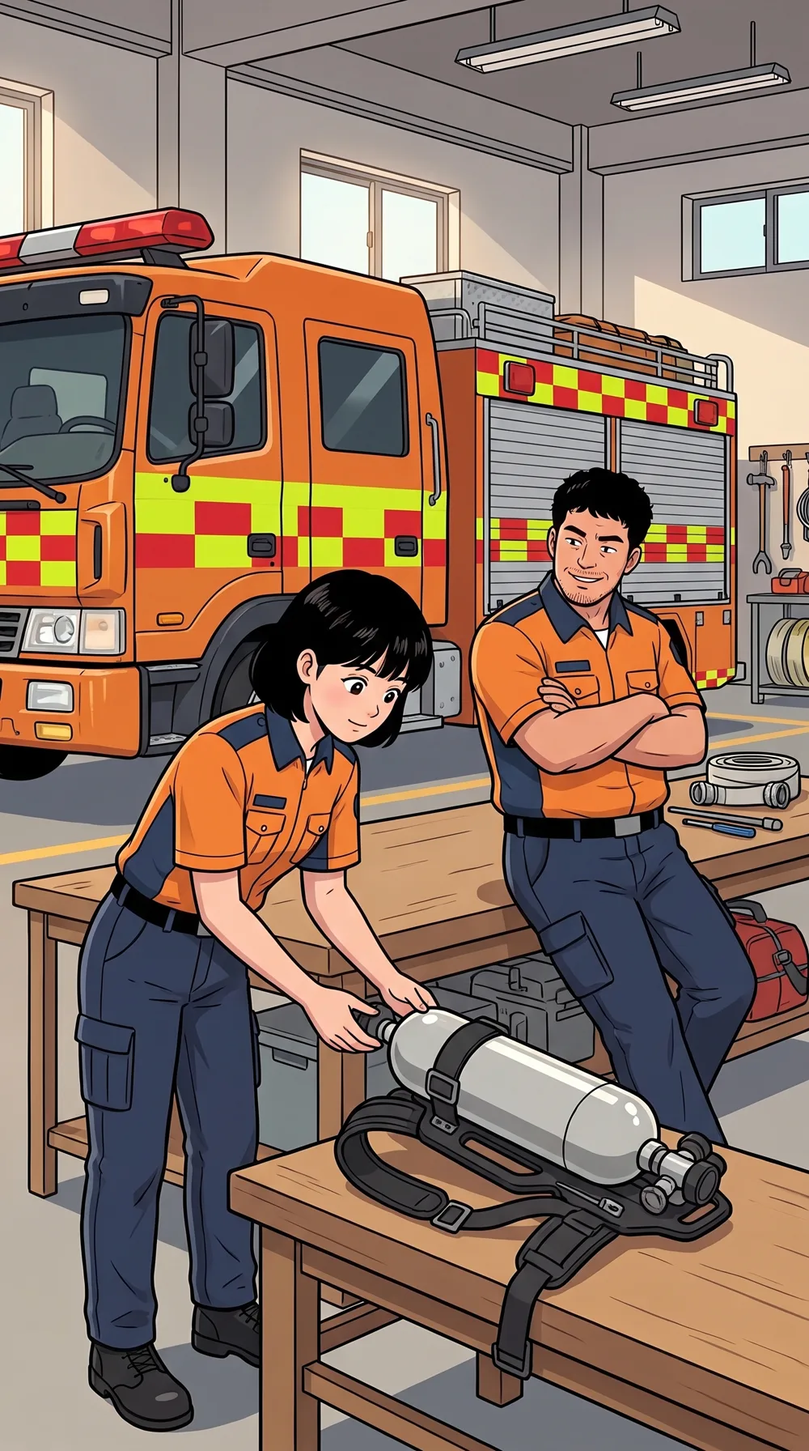
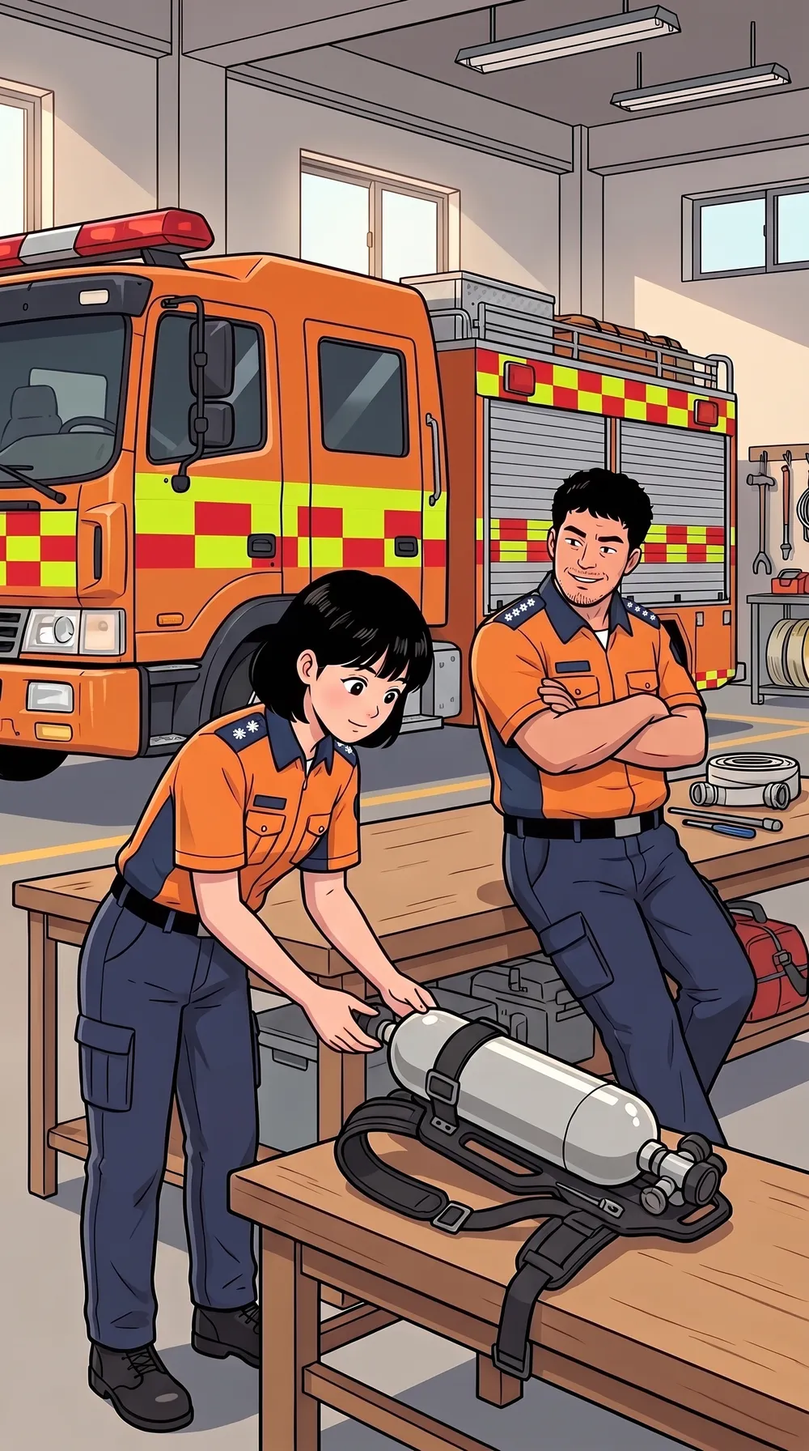
1화·목차: 등장인물 변경, 견장 계급장·역할별 헬멧, 새 말풍선·설명란
- 등장인물: 정종인(소방령 지휘대장), 서종근(소방경 선착대장), 주강호, 이도경, 신태선, 고기석, 임동완
- 1화 컷 2·3·4: 기동복 견장 계급장(소방사 2·소방장 4)
- 1화 컷 5·8·9: 헬멧 지휘관 하늘색, 대원 검정
- 1화 말풍선·설명란을 칸 테두리에 걸치는 흰 타원·사각형 양식으로 변경
- 만든이: 부산지휘역량강화센터 공동제작

diff --git a/ep01/index.html b/ep01/index.html
@@ -1,63 +1,73 @@
-<!doctype html><html lang="ko"><head><meta charset="utf-8"><meta name="author" content="부산 ICTC 서종근"><meta name="viewport" content="width=800"><title>ICTC 지휘통제절차 웹툰 1화 「지령 한 줄」</title><style>
+<!doctype html><html lang="ko"><head><meta charset="utf-8"><meta name="author" content="부산지휘역량강화센터(정종인,서종근,주강호,신태선,고기석,이도경) 공동제작"><meta name="viewport" content="width=800"><title>ICTC 지휘통제절차 웹툰 1화 「지령 한 줄」</title><style>
 @font-face{font-family:P;src:local("Pretendard Bold"),local("Pretendard-Bold");font-weight:700}
 @font-face{font-family:P;src:local("Pretendard Regular"),local("Pretendard-Regular");font-weight:400}
 body{margin:0;background:#2b2b2b;font-family:P,"Malgun Gothic",sans-serif}
 .ep{width:800px;margin:0 auto;background:#fff}
 .head{padding:70px 40px 50px;text-align:center;background:linear-gradient(#0d2a5c,#173f86);color:#fff}
 .head .s{font-size:20px;letter-spacing:4px;color:#ffd34d}.head h1{font-size:54px;margin:14px 0 6px}.head .t{font-size:22px;opacity:.85}
-.cut{position:relative;padding:0 0 26px}
-.frame{position:relative;width:800px;overflow:hidden;background:#d9dde3}
-.frame img{display:block;width:800px}
-.r916{height:1422px}.r169{height:450px}
-.frame img{height:100%;object-fit:cover}
-.ph{position:absolute;inset:0;display:flex;flex-direction:column;align-items:center;justify-content:center;color:#55606e;font-size:26px;gap:10px;text-align:center;padding:40px;box-sizing:border-box}
-.ph small{font-size:16px;color:#7b8794}
-.cap{position:absolute;left:24px;top:24px;max-width:600px;background:#fffbe6;border:3px solid #1d1d1d;padding:14px 18px;font-size:25px;line-height:1.5;font-weight:700;color:#1d1d1d;box-shadow:5px 5px 0 rgba(0,0,0,.35)}
-.cap.mono{background:#eef4ff;font-style:italic;font-weight:400}
-.cardword{position:absolute;top:250px;transform:translate(-50%,-50%);font-size:40px;font-weight:700;color:#1d1d1d;white-space:nowrap}
-.cap.titlecard{left:50%;top:50%;transform:translate(-50%,-50%);font-size:40px;text-align:center;max-width:none;white-space:nowrap;background:#fff}
-.wrongband{position:absolute;left:0;right:0;top:0;background:#d7261e;color:#fff;font-weight:700;font-size:30px;padding:12px 24px;letter-spacing:2px;z-index:3}
-.wrongband + .cap{top:84px}
-.wrong .frame::after{content:"";position:absolute;inset:0;border:10px solid #d7261e;pointer-events:none}
-.talk{padding:18px 40px 0;display:flex;flex-direction:column;gap:18px}
-.b{position:relative;max-width:620px;padding:18px 24px;border:3px solid #1d1d1d;border-radius:34px;background:#fff;font-size:27px;line-height:1.5;color:#111}
-.b .w{display:block;font-size:17px;font-weight:700;color:#5a6575;margin-bottom:2px}
-.b:nth-child(odd){align-self:flex-start}.b:nth-child(even){align-self:flex-end}
-.b::before{content:"";position:absolute;top:-18px;left:46px;border:16px solid transparent;border-bottom-color:#1d1d1d;border-top:0}
-.b:nth-child(even)::before{left:auto;right:46px}
-.b.think{border-style:dashed;border-radius:60px;background:#f4f6fa;font-style:italic}.b.think::before{display:none}
-.b.radio{border-radius:6px;background:#fff3f0;border-color:#c0392b;font-weight:700;clip-path:polygon(0 8%,3% 0,97% 0,100% 8%,100% 92%,97% 100%,3% 100%,0 92%)}
-.b.radio .w::before{content:"◉ 무전 · "}.b.radio::before{display:none}
-.summary{position:absolute;left:40px;right:40px;top:50%;transform:translateY(-50%);background:rgba(255,255,255,.94);border:4px solid #0d2a5c;border-radius:24px;padding:40px 36px;box-sizing:border-box;font-size:28px;line-height:1.6;color:#0d2a5c}
-.summary h2{margin:0 0 24px;font-size:40px;color:#d7261e}.summary li{margin-bottom:22px}.summary .src{display:block;font-size:19px;color:#5a6575}
-.next{position:absolute;left:0;right:0;bottom:0;background:rgba(13,42,92,.88);color:#fff;padding:22px 30px;font-size:25px;line-height:1.5}
-.next b{color:#ffd34d;font-size:30px}
+.cut{position:relative;padding:56px 0 34px}
+.frame{position:relative;z-index:1;overflow:hidden;background:#d9dde3;border:2px solid #111;box-sizing:content-box;margin:0 auto}
+.r916{width:660px;height:1173px}.r169{width:760px;height:427px}
+.cut.odd .r916{margin-left:48px}.cut.even .r916{margin-left:88px}
+.frame img{display:block;width:100%;height:100%;object-fit:cover}
+.ph{position:absolute;inset:0;display:flex;align-items:center;justify-content:center;color:#55606e;font-size:26px}
+/* 설명란: 흰 사각형, 얇은 검정 테두리, 가운데 정렬, 칸 위 테두리에 걸침 */
+.nar{position:relative;z-index:3;display:flex;justify-content:center;margin:0 60px -34px}
+.nar div{background:#fff;border:2px solid #111;padding:16px 30px;font-size:24px;line-height:1.55;text-align:center;color:#111;max-width:560px;word-break:keep-all}
+.cut.odd .nar{margin:0 0 -34px;padding:0 92px 0 48px}.cut.even .nar{margin:0 0 -34px;padding:0 52px 0 88px}
+.nar.mono div{font-style:italic;color:#24324a}
+/* 말풍선: 흰 타원, 검정 선, 칸 테두리에 걸침, 꼬리는 말하는 사람 쪽 */
+.top,.bot{position:relative;z-index:3;display:flex;flex-direction:column;gap:14px}
+.top{margin-bottom:-30px}.bot{margin-top:-30px}.nar+.frame+.bot{margin-top:-30px}
+.bw{display:flex;padding:0 34px}.bw.sL{justify-content:flex-start}.bw.sR{justify-content:flex-end}.bw.sC{justify-content:center}
+.bx{position:relative;max-width:500px}
+.b{position:relative;background:#fff;border:3px solid #111;border-radius:50%/50%;padding:30px 44px;font-size:24px;line-height:1.5;text-align:center;color:#111;word-break:keep-all}
+.b.long{border-radius:60px}
+.b.think{border-style:dashed;border-radius:50%/50%;font-style:italic;color:#24324a}
+.b.radio{border-radius:14px;border-width:3px;box-shadow:0 0 0 3px #fff,0 0 0 5px #111;font-weight:700;padding:26px 30px 22px}
+.b .tag{position:absolute;left:16px;top:-15px;background:#d7261e;color:#fff;font-size:15px;font-weight:700;padding:2px 10px;border-radius:10px;letter-spacing:1px}
+.tl{position:absolute;width:40px;height:46px;overflow:visible}
+.tl path{fill:#fff;stroke:#111;stroke-width:3;stroke-linejoin:round}
+.tl.th circle{fill:#fff;stroke:#111;stroke-width:2.5}
+.tl.dn{top:calc(100% - 6px)}.tl.up{bottom:calc(100% - 6px)}
+.tl.tL{left:24%}.tl.tR{right:24%}.tl.tC{left:calc(50% - 20px)}
+.b{z-index:1}
+/* 특수 칸 */
+.cardword{position:absolute;top:55.6%;transform:translate(-50%,-50%);font-size:38px;font-weight:700;color:#1d1d1d;white-space:nowrap}
+.titlecard{position:absolute;left:50%;top:50%;transform:translate(-50%,-50%);background:#fff;border:2px solid #111;padding:16px 30px;font-size:38px;font-weight:700;white-space:nowrap}
+.wrongband{position:absolute;left:0;right:0;top:0;background:#d7261e;color:#fff;font-weight:700;font-size:28px;padding:12px 24px;letter-spacing:2px;z-index:3}
+.cut.wrong .frame{border:8px solid #d7261e}
+.summary{position:absolute;left:34px;right:34px;top:50%;transform:translateY(-50%);background:rgba(255,255,255,.95);border:3px solid #0d2a5c;border-radius:20px;padding:36px 32px;box-sizing:border-box;font-size:26px;line-height:1.6;color:#0d2a5c}
+.summary h2{margin:0 0 22px;font-size:36px;color:#d7261e}.summary li{margin-bottom:20px}.summary .src{display:block;font-size:18px;color:#5a6575}
+.next{position:absolute;left:0;right:0;bottom:0;background:rgba(13,42,92,.88);color:#fff;padding:20px 28px;font-size:23px;line-height:1.5}
+.next b{color:#ffd34d;font-size:28px}.next a{color:#ffd34d}
 .foot{padding:40px;text-align:center;color:#8a94a3;font-size:16px;background:#f3f4f6}
-.home{display:block;padding:14px 24px;background:#0a1f45;color:#ffd34d;font-size:18px;text-decoration:none}.navend{display:block;padding:26px;text-align:center;background:#0d2a5c;color:#fff;font-size:22px;text-decoration:none}</style></head><body><div class="ep"><a class="home" href="../">← 목록으로</a>
+.home{display:block;padding:14px 24px;background:#0a1f45;color:#ffd34d;font-size:18px;text-decoration:none}.navend{display:block;padding:26px;text-align:center;background:#0d2a5c;color:#fff;font-size:22px;text-decoration:none}
+</style></head><body><div class="ep"><a class="home" href="../">← 목록으로</a>
 <div class="head"><div class="s">ICTC 지휘통제절차 웹툰 · 시즌 1</div><h1>1화 「지령 한 줄」</h1><div class="t">출동은 지령을 읽는 데서 시작된다</div></div>
-<section class="cut" id="c1" data-cut="1"><div class="frame r169"><img src="img/01.webp" loading="lazy" alt="컷 1"><div class="cap">평일 오후, 가람구의 한 119안전센터.</div></div></section>
-<section class="cut" id="c2" data-cut="2"><div class="frame r916"><img src="img/02.webp" loading="lazy" alt="컷 2"></div><div class="talk"><div class="b say"><span class="w">하늘</span>선배, 오늘은 조용하네요.</div><div class="b say"><span class="w">정우</span>그 말 하면 꼭…</div></div></section>
-<section class="cut" id="c3" data-cut="3"><div class="frame r916"><img src="img/03.webp" loading="lazy" alt="컷 3"></div><div class="talk"><div class="b radio"><span class="w">지령</span>화재출동! 화재출동! 가람구 한솔아파트 4층 공사장 화재 —</div></div></section>
-<section class="cut" id="c4" data-cut="4"><div class="frame r169"><img src="img/04.webp" loading="lazy" alt="컷 4"><div class="cap">119종합상황실.</div></div><div class="talk"><div class="b radio"><span class="w">지령</span>현재 다량의 검은연기와 불꽃이 보인다고 함. 신고자에 의하면 다수의 작업자가 대피하지 못했고 동일신고 다수 접수.</div></div></section>
-<section class="cut" id="c5" data-cut="5"><div class="frame r916"><img src="img/05.webp" loading="lazy" alt="컷 5"><div class="cap">출동은 장비 점검과 개인보호장비 착용에서 시작한다.</div></div><div class="talk"><div class="b radio"><span class="w">지령</span>현장지휘관은 상황판단 후 내부진입 여부 결정! 선착대는 진압1대 신속 비발!!</div></div></section>
-<section class="cut" id="c6" data-cut="6"><div class="frame r916"><img src="img/06.webp" loading="lazy" alt="컷 6"><div class="cap">선착대장 강도윤. 선착대 — 현장에 가장 먼저 도착하는 출동대.</div></div></section>
-<section class="cut" id="c7" data-cut="7"><div class="frame r916"><img src="img/07.webp" loading="lazy" alt="컷 7"></div><div class="talk"><div class="b say"><span class="w">하늘</span>작업자가 다수 갇혔대요! 도착하면 바로 들어가야죠!</div></div></section>
-<section class="cut wrong" id="c8" data-cut="8"><div class="frame r916"><img src="img/08.webp" loading="lazy" alt="컷 8"><div class="wrongband">✕ 잘못된 예</div><div class="cap">지휘관의 진입 명령 없는 단독 내부 진입.</div></div></section>
-<section class="cut" id="c9" data-cut="9"><div class="frame r916"><img src="img/09.webp" loading="lazy" alt="컷 9"></div><div class="talk"><div class="b say"><span class="w">도윤</span>아니. 지령 끝을 다시 들어 봐.</div></div></section>
-<section class="cut" id="c10" data-cut="10"><div class="frame r169"><img src="img/10.webp" loading="lazy" alt="컷 10"></div><div class="talk"><div class="b radio"><span class="w">지령(회상)</span>현장지휘관은 상황판단 후 내부진입 여부 결정!</div></div></section>
-<section class="cut" id="c11" data-cut="11"><div class="frame r916"><img src="img/11.webp" loading="lazy" alt="컷 11"><div class="cap">현장지휘관의 진입 명령 없이는 내부 진입이 금지된다.</div></div><div class="talk"><div class="b say"><span class="w">도윤</span>들어갈지는 현장지휘관이 보고 판단한다. 들어가기로 하면 무전으로 명령한다. 명령 없는 내부 진입은 없다.</div></div></section>
-<section class="cut" id="c12" data-cut="12"><div class="frame r916"><img src="img/12.webp" loading="lazy" alt="컷 12"><div class="cap">강도윤은 이 차의 운행 책임자다. 운행 책임자 — 예전 말로 '선탑자'.</div></div></section>
-<section class="cut" id="c13" data-cut="13"><div class="frame r169"><img src="img/13.webp" loading="lazy" alt="컷 13"><div class="cap">비발 — 출동.</div></div></section>
-<section class="cut" id="c14" data-cut="14"><div class="frame r916"><img src="img/14.webp" loading="lazy" alt="컷 14"></div><div class="talk"><div class="b say"><span class="w">도윤</span>지령에서 먼저 뽑을 건 세 가지다. 무엇이, 얼마나 크게, 사람은.</div></div></section>
-<section class="cut" id="c15" data-cut="15"><div class="frame r169"><img src="img/15.webp" loading="lazy" alt="컷 15"><div class="cardword" style="left:147px">재난유형</div><div class="cardword" style="left:400px">규모</div><div class="cardword" style="left:653px">인명피해</div></div></section>
-<section class="cut" id="c16" data-cut="16"><div class="frame r916"><img src="img/16.webp" loading="lazy" alt="컷 16"></div><div class="talk"><div class="b say"><span class="w">하늘</span>유형은 공사장 4층 화재. 규모는… 검은연기와 불꽃이 다량, 동일신고 다수. 사람은 작업자 다수 미대피!</div></div></section>
-<section class="cut" id="c17" data-cut="17"><div class="frame r916"><img src="img/17.webp" loading="lazy" alt="컷 17"></div><div class="talk"><div class="b say"><span class="w">도윤</span>그건 지금 들어온 정보일 뿐이다. 초기 정보는 부정확하고, 계속 바뀐다.</div></div></section>
-<section class="cut" id="c18" data-cut="18"><div class="frame r916"><img src="img/18.webp" loading="lazy" alt="컷 18"><div class="cap">출동접수 즉시, 대상물 용도·기상·시간대를 기초로 출동대 규모가 충분한지 예측한다.</div></div><div class="talk"><div class="b think"><span class="w">도윤</span>공사장 — 용도. 평일 오후 — 작업자가 있을 시간대. 바람은… 약하다.</div></div></section>
-<section class="cut" id="c19" data-cut="19"><div class="frame r916"><img src="img/19.webp" loading="lazy" alt="컷 19"></div><div class="talk"><div class="b think"><span class="w">도윤</span>15층 공사장, 미대피자 다수. 지금 편성으로 충분한가?</div></div></section>
-<section class="cut" id="c20" data-cut="20"><div class="frame r916"><img src="img/20.webp" loading="lazy" alt="컷 20"></div><div class="talk"><div class="b say"><span class="w">정우</span>모자라면요?</div><div class="b say"><span class="w">도윤</span>부족하다고 판단되면 추가자원을 요청한다. 과소평가보다 과대평가가 낫다.</div></div></section>
-<section class="cut" id="c21" data-cut="21"><div class="frame r916"><img src="img/21.webp" loading="lazy" alt="컷 21"><div class="cap">출동 중에도 추가 소방력을 판단하고 요청할 수 있다.</div></div><div class="talk"><div class="b say"><span class="w">도윤</span>그 판단은 가면서 들어오는 정보까지 보고 한다.</div></div></section>
-<section class="cut" id="c22" data-cut="22"><div class="frame r916"><img src="img/22.webp" loading="lazy" alt="컷 22"><div class="cap mono">아직 도착도 안 했는데, 지휘는 벌써 시작되고 있었다.</div></div></section>
+<section class="cut" id="c1" data-cut="1"><div class="nar"><div>평일 오후, 가람구의 한 119안전센터.</div></div><div class="frame r169"><img src="img/01.webp" loading="lazy" alt="컷 1"></div></section>
+<section class="cut odd" id="c2" data-cut="2"><div class="top"><div class="bw sL"><div class="bx"><svg class="tl tL dn" viewBox="0 0 40 46"><path d="M10 0 Q16 20 6 44 Q18 26 34 0"/></svg><div class="b say">선배, 오늘은 조용하네요.</div></div></div></div><div class="frame r916"><img src="img/02.webp" loading="lazy" alt="컷 2"></div><div class="bot"><div class="bw sR"><div class="bx"><svg class="tl tR up" viewBox="0 0 40 46"><path d="M6 46 Q22 20 34 2 Q24 26 30 46"/></svg><div class="b say">그 말 하면 꼭…</div></div></div></div></section>
+<section class="cut even" id="c3" data-cut="3"><div class="top"><div class="bw sC"><div class="bx"><svg class="tl tC dn" viewBox="0 0 40 46"><path d="M10 0 Q16 20 6 44 Q18 26 34 0"/></svg><div class="b radio"><span class="tag">지령</span>화재출동! 화재출동! 가람구 한솔아파트 4층 공사장 화재 —</div></div></div></div><div class="frame r916"><img src="img/03.webp" loading="lazy" alt="컷 3"></div></section>
+<section class="cut" id="c4" data-cut="4"><div class="nar"><div>119종합상황실.</div></div><div class="frame r169"><img src="img/04.webp" loading="lazy" alt="컷 4"></div><div class="bot"><div class="bw sC"><div class="bx"><svg class="tl tC up" viewBox="0 0 40 46"><path d="M10 46 Q16 26 6 2 Q18 20 34 46"/></svg><div class="b radio long"><span class="tag">지령</span>현재 다량의 검은연기와 불꽃이 보인다고 함. 신고자에 의하면 다수의 작업자가 대피하지 못했고 동일신고 다수 접수.</div></div></div></div></section>
+<section class="cut odd" id="c5" data-cut="5"><div class="nar"><div>출동은 장비 점검과 개인보호장비 착용에서 시작한다.</div></div><div class="frame r916"><img src="img/05.webp" loading="lazy" alt="컷 5"></div><div class="bot"><div class="bw sC"><div class="bx"><svg class="tl tC up" viewBox="0 0 40 46"><path d="M10 46 Q16 26 6 2 Q18 20 34 46"/></svg><div class="b radio long"><span class="tag">지령</span>현장지휘관은 상황판단 후 내부진입 여부 결정! 선착대는 진압1대 신속 비발!!</div></div></div></div></section>
+<section class="cut even" id="c6" data-cut="6"><div class="nar"><div>선착대장 소방경 서종근. 선착대 — 현장에 가장 먼저 도착하는 출동대.</div></div><div class="frame r916"><img src="img/06.webp" loading="lazy" alt="컷 6"></div></section>
+<section class="cut odd" id="c7" data-cut="7"><div class="top"><div class="bw sL"><div class="bx"><svg class="tl tL dn" viewBox="0 0 40 46"><path d="M10 0 Q16 20 6 44 Q18 26 34 0"/></svg><div class="b say">작업자가 다수 갇혔대요! 도착하면 바로 들어가야죠!</div></div></div></div><div class="frame r916"><img src="img/07.webp" loading="lazy" alt="컷 7"></div></section>
+<section class="cut wrong even" id="c8" data-cut="8"><div class="frame r916"><img src="img/08.webp" loading="lazy" alt="컷 8"><div class="wrongband">✕ 잘못된 예 — 지휘관의 진입 명령 없는 단독 내부 진입.</div></div></section>
+<section class="cut odd" id="c9" data-cut="9"><div class="top"><div class="bw sR"><div class="bx"><svg class="tl tR dn" viewBox="0 0 40 46"><path d="M6 0 Q22 26 34 44 Q24 20 30 0"/></svg><div class="b say">아니. 지령 끝을 다시 들어 봐.</div></div></div></div><div class="frame r916"><img src="img/09.webp" loading="lazy" alt="컷 9"></div></section>
+<section class="cut" id="c10" data-cut="10"><div class="top"><div class="bw sC"><div class="bx"><svg class="tl tC dn" viewBox="0 0 40 46"><path d="M10 0 Q16 20 6 44 Q18 26 34 0"/></svg><div class="b radio"><span class="tag">지령(회상)</span>현장지휘관은 상황판단 후 내부진입 여부 결정!</div></div></div></div><div class="frame r169"><img src="img/10.webp" loading="lazy" alt="컷 10"></div></section>
+<section class="cut even" id="c11" data-cut="11"><div class="nar"><div>현장지휘관의 진입 명령 없이는 내부 진입이 금지된다.</div></div><div class="frame r916"><img src="img/11.webp" loading="lazy" alt="컷 11"></div><div class="bot"><div class="bw sR"><div class="bx"><svg class="tl tR up" viewBox="0 0 40 46"><path d="M6 46 Q22 20 34 2 Q24 26 30 46"/></svg><div class="b say long">들어갈지는 현장지휘관이 보고 판단한다. 들어가기로 하면 무전으로 명령한다. 명령 없는 내부 진입은 없다.</div></div></div></div></section>
+<section class="cut odd" id="c12" data-cut="12"><div class="nar"><div>서종근은 이 차의 운행 책임자다. 운행 책임자 — 예전 말로 '선탑자'.</div></div><div class="frame r916"><img src="img/12.webp" loading="lazy" alt="컷 12"></div></section>
+<section class="cut" id="c13" data-cut="13"><div class="nar"><div>비발 — 출동.</div></div><div class="frame r169"><img src="img/13.webp" loading="lazy" alt="컷 13"></div></section>
+<section class="cut even" id="c14" data-cut="14"><div class="top"><div class="bw sL"><div class="bx"><svg class="tl tL dn" viewBox="0 0 40 46"><path d="M10 0 Q16 20 6 44 Q18 26 34 0"/></svg><div class="b say long">지령에서 먼저 뽑을 건 세 가지다. 무엇이, 얼마나 크게, 사람은.</div></div></div></div><div class="frame r916"><img src="img/14.webp" loading="lazy" alt="컷 14"></div></section>
+<section class="cut" id="c15" data-cut="15"><div class="frame r169"><img src="img/15.webp" loading="lazy" alt="컷 15"><div class="cardword" style="left:18.4%">재난유형</div><div class="cardword" style="left:50%">규모</div><div class="cardword" style="left:81.6%">인명피해</div></div></section>
+<section class="cut odd" id="c16" data-cut="16"><div class="top"><div class="bw sL"><div class="bx"><svg class="tl tL dn" viewBox="0 0 40 46"><path d="M10 0 Q16 20 6 44 Q18 26 34 0"/></svg><div class="b say long">유형은 공사장 4층 화재. 규모는… 검은연기와 불꽃이 다량, 동일신고 다수. 사람은 작업자 다수 미대피!</div></div></div></div><div class="frame r916"><img src="img/16.webp" loading="lazy" alt="컷 16"></div></section>
+<section class="cut even" id="c17" data-cut="17"><div class="top"><div class="bw sR"><div class="bx"><svg class="tl tR dn" viewBox="0 0 40 46"><path d="M6 0 Q22 26 34 44 Q24 20 30 0"/></svg><div class="b say long">그건 지금 들어온 정보일 뿐이다. 초기 정보는 부정확하고, 계속 바뀐다.</div></div></div></div><div class="frame r916"><img src="img/17.webp" loading="lazy" alt="컷 17"></div></section>
+<section class="cut odd" id="c18" data-cut="18"><div class="nar"><div>출동접수 즉시, 대상물 용도·기상·시간대를 기초로 출동대 규모가 충분한지 예측한다.</div></div><div class="frame r916"><img src="img/18.webp" loading="lazy" alt="컷 18"></div><div class="bot"><div class="bw sC"><div class="bx"><svg class="tl tC up th" viewBox="0 0 40 46"><circle cx="14" cy="34" r="8"/><circle cx="8" cy="12" r="5"/></svg><div class="b think long">공사장 — 용도. 평일 오후 — 작업자가 있을 시간대. 바람은… 약하다.</div></div></div></div></section>
+<section class="cut even" id="c19" data-cut="19"><div class="top"><div class="bw sC"><div class="bx"><svg class="tl tC dn th" viewBox="0 0 40 46"><circle cx="14" cy="12" r="8"/><circle cx="8" cy="34" r="5"/></svg><div class="b think">15층 공사장, 미대피자 다수. 지금 편성으로 충분한가?</div></div></div></div><div class="frame r916"><img src="img/19.webp" loading="lazy" alt="컷 19"></div></section>
+<section class="cut odd" id="c20" data-cut="20"><div class="top"><div class="bw sR"><div class="bx"><svg class="tl tR dn" viewBox="0 0 40 46"><path d="M6 0 Q22 26 34 44 Q24 20 30 0"/></svg><div class="b say">모자라면요?</div></div></div></div><div class="frame r916"><img src="img/20.webp" loading="lazy" alt="컷 20"></div><div class="bot"><div class="bw sL"><div class="bx"><svg class="tl tL up" viewBox="0 0 40 46"><path d="M10 46 Q16 26 6 2 Q18 20 34 46"/></svg><div class="b say long">부족하다고 판단되면 추가자원을 요청한다. 과소평가보다 과대평가가 낫다.</div></div></div></div></section>
+<section class="cut even" id="c21" data-cut="21"><div class="nar"><div>출동 중에도 추가 소방력을 판단하고 요청할 수 있다.</div></div><div class="frame r916"><img src="img/21.webp" loading="lazy" alt="컷 21"></div><div class="bot"><div class="bw sC"><div class="bx"><svg class="tl tC up" viewBox="0 0 40 46"><path d="M10 46 Q16 26 6 2 Q18 20 34 46"/></svg><div class="b say">그 판단은 가면서 들어오는 정보까지 보고 한다.</div></div></div></div></section>
+<section class="cut odd" id="c22" data-cut="22"><div class="nar mono"><div>아직 도착도 안 했는데, 지휘는 벌써 시작되고 있었다.</div></div><div class="frame r916"><img src="img/22.webp" loading="lazy" alt="컷 22"></div></section>
 <section class="cut" id="c23" data-cut="23"><div class="frame r169"><img src="img/23.webp" loading="lazy" alt="컷 23"></div></section>
-<section class="cut" id="c24" data-cut="24"><div class="frame r916"><img src="img/24.webp" loading="lazy" alt="컷 24"><div class="summary"><h2>핵심 포인트</h2><ol><li>지령에서 재난유형·규모·인명피해를 먼저 뽑는다<span class="src">SOP 102 2.1.1</span></li><li>용도·기상·시간대로 출동대가 충분한지 예측한다<span class="src">SOP 103 1.1</span></li><li>내부 진입은 현장지휘관의 무전 명령으로만<span class="src">SOP 102 5.2</span></li></ol></div></div></section>
-<section class="cut" id="c25" data-cut="25"><div class="frame r169"><img src="img/25.webp" loading="lazy" alt="컷 25"><div class="next"><b><a href="../ep02/" style="color:#ffd34d">다음 화 — 「도착 전 지휘」 →</a></b><br>출동 중에 무엇을 모으고, 누구에게 무엇을 미리 맡기는가.</div></div></section>
-<a class="navend" href="../">← 지휘통제절차 편 목록으로</a><div class="foot">근거: SOP100-113 지휘통제절차 해설(2025.12. 개정판) · 등장 인물·지명은 가상입니다.<br>ICTC 지휘역량강화센터 교육용<br>만든이: 부산 ICTC 서종근</div></div><script>const m=location.hash.match(/only=([0-9,]+)/);if(m){const k=m[1].split(",");document.querySelectorAll(".cut").forEach(s=>{if(!k.includes(s.dataset.cut))s.remove()});document.querySelector(".head").remove()}</script></body></html>
+<section class="cut even" id="c24" data-cut="24"><div class="frame r916"><img src="img/24.webp" loading="lazy" alt="컷 24"><div class="summary"><h2>핵심 포인트</h2><ol><li>지령에서 재난유형·규모·인명피해를 먼저 뽑는다<span class="src">SOP 102 2.1.1</span></li><li>용도·기상·시간대로 출동대가 충분한지 예측한다<span class="src">SOP 103 1.1</span></li><li>내부 진입은 현장지휘관의 무전 명령으로만<span class="src">SOP 102 5.2</span></li></ol></div></div></section>
+<section class="cut" id="c25" data-cut="25"><div class="frame r169"><img src="img/25.webp" loading="lazy" alt="컷 25"><div class="next"><b><a href="../ep02/">다음 화 — 「도착 전 지휘」. →</a></b><br>출동 중에 무엇을 모으고, 누구에게 무엇을 미리 맡기는가.</div></div></section>
+<a class="navend" href="../">← 지휘통제절차 편 목록으로</a><div class="foot">근거: SOP100-113 지휘통제절차 해설(2025.12. 개정판) · 등장 인물·지명은 가상입니다.<br>ICTC 지휘역량강화센터 교육용<br>만든이: 부산지휘역량강화센터(정종인,서종근,주강호,신태선,고기석,이도경) 공동제작</div></div><script>const m=location.hash.match(/only=([0-9,]+)/);if(m){const k=m[1].split(",");document.querySelectorAll(".cut").forEach(s=>{if(!k.includes(s.dataset.cut))s.remove()});document.querySelector(".head").remove()}</script></body></html>

diff --git a/ep02/index.html b/ep02/index.html
@@ -1,4 +1,4 @@
-<!doctype html><html lang="ko"><head><meta charset="utf-8"><meta name="author" content="부산 ICTC 서종근"><meta name="viewport" content="width=800"><title>ICTC 지휘통제절차 웹툰 2화 「도착 전 지휘」</title><style>
+<!doctype html><html lang="ko"><head><meta charset="utf-8"><meta name="author" content="부산지휘역량강화센터(정종인,서종근,주강호,신태선,고기석,이도경) 공동제작"><meta name="viewport" content="width=800"><title>ICTC 지휘통제절차 웹툰 2화 「도착 전 지휘」</title><style>
 @font-face{font-family:P;src:local("Pretendard Bold"),local("Pretendard-Bold");font-weight:700}
 @font-face{font-family:P;src:local("Pretendard Regular"),local("Pretendard-Regular");font-weight:400}
 body{margin:0;background:#2b2b2b;font-family:P,"Malgun Gothic",sans-serif}
@@ -63,4 +63,4 @@ body{margin:0;background:#2b2b2b;font-family:P,"Malgun Gothic",sans-serif}
 <section class="cut" id="c23" data-cut="23"><div class="frame r169"><img src="img/23.webp" alt="컷 23" loading="lazy"></div></section>
 <section class="cut" id="c24" data-cut="24"><div class="frame r916"><img src="img/24.webp" alt="컷 24" loading="lazy"><div class="summary"><h2>핵심 포인트</h2><ol><li>출동 중에도 정보를 모은다: 안전지도·정보카드·상황실<span class="src">SOP 102 2.1.2</span></li><li>본 것은 전파하고, 임무는 미리 맡긴다<span class="src">PART Ⅱ ①</span></li><li>후착대는 대기1단계: 멈추고, 보고하고, 기다린다<span class="src">SOP 103 2.1</span></li></ol></div></div></section>
 <section class="cut" id="c25" data-cut="25"><div class="frame r169"><img src="img/25.webp" alt="컷 25" loading="lazy"><div class="next"><b>다음 화 — 「지휘권 선언」.</b><br>도착 즉시 첫 무전, 그리고 360도.</div></div></section>
-<a class="navend" href="../">← 지휘통제절차 편 목록으로</a><div class="foot">근거: SOP100-113 지휘통제절차 해설(2025.12. 개정판) · 현장지휘관 자격인증 과정 교육자료 · 등장 인물·지명은 가상입니다.<br>ICTC 지휘역량강화센터 교육용<br>만든이: 부산 ICTC 서종근</div></div><script>const m=location.hash.match(/only=([0-9,]+)/);if(m){const k=m[1].split(",");document.querySelectorAll(".cut").forEach(s=>{if(!k.includes(s.dataset.cut))s.remove()});document.querySelector(".head").remove()}</script></body></html>
+<a class="navend" href="../">← 지휘통제절차 편 목록으로</a><div class="foot">근거: SOP100-113 지휘통제절차 해설(2025.12. 개정판) · 현장지휘관 자격인증 과정 교육자료 · 등장 인물·지명은 가상입니다.<br>ICTC 지휘역량강화센터 교육용<br>만든이: 부산지휘역량강화센터(정종인,서종근,주강호,신태선,고기석,이도경) 공동제작</div></div><script>const m=location.hash.match(/only=([0-9,]+)/);if(m){const k=m[1].split(",");document.querySelectorAll(".cut").forEach(s=>{if(!k.includes(s.dataset.cut))s.remove()});document.querySelector(".head").remove()}</script></body></html>

diff --git a/index.html b/index.html
@@ -1,7 +1,7 @@
 <!doctype html>
 <html lang="ko">
 <head>
-<meta charset="utf-8"><meta name="author" content="부산 ICTC 서종근">
+<meta charset="utf-8"><meta name="author" content="부산지휘역량강화센터(정종인,서종근,주강호,신태선,고기석,이도경) 공동제작">
 <meta name="viewport" content="width=device-width, initial-scale=1">
 <title>ICTC 웹툰 · 지휘통제절차 편</title>
 <meta name="description" content="ICTC 지휘역량강화센터 교육용 웹툰 — 지휘통제절차 편(SOP 100-113)">
@@ -32,6 +32,7 @@ a.ep:hover{background:#f4f7fc}
 .cast{display:grid;grid-template-columns:repeat(auto-fill,minmax(220px,1fr));gap:12px;padding:16px 24px 8px}
 .cast div{background:#f4f6fa;border-radius:10px;padding:12px 14px;font-size:15px;line-height:1.5}
 .cast b{font-size:17px;color:#0d2a5c}
+.cast .rk{display:inline-block;font-size:12px;font-weight:700;padding:1px 8px;border-radius:9px;background:#0d2a5c;color:#fff;vertical-align:2px}
 .foot{padding:36px 24px;text-align:center;color:#8a94a3;font-size:14px;line-height:1.7;background:#f3f4f6;margin-top:24px}
 @media (max-width:520px){.hero h1{font-size:34px}.thumb{flex-basis:112px;height:63px}.ti{font-size:18px}}
 </style>
@@ -63,14 +64,16 @@ a.ep:hover{background:#f4f7fc}
 
   <h2>등장인물</h2>
   <div class="cast">
-    <div><b>강도윤</b><br>선착대장(진압1대장)</div>
-    <div><b>이하늘</b><br>진압1대 신입 대원</div>
-    <div><b>박정우</b><br>진압1대 선임 대원·운전원</div>
-    <div><b>한서진</b><br>지휘대장</div>
-    <div><b>정유나</b><br>119종합상황실 요원</div>
+    <div><b>정종인</b> <span class="rk">소방령</span><br>지휘대장</div>
+    <div><b>서종근</b> <span class="rk">소방경</span><br>선착대장</div>
+    <div><b>주강호</b> <span class="rk">소방장</span><br>진압1대 선임 대원·운전원</div>
+    <div><b>이도경</b> <span class="rk">소방사</span><br>진압1대 신입 대원</div>
+    <div><b>신태선</b> <span class="rk">소방장</span><br>119종합상황실 요원</div>
+    <div><b>고기석</b> <span class="rk">소방위</span><br>구급대장(임시의료소장)</div>
+    <div><b>임동완</b> <span class="rk">소방교</span><br>구조대원</div>
   </div>
 
-  <div class="foot">근거: SOP100-113 지휘통제절차 해설(2025.12. 개정판)<br>등장 인물·지명은 가상입니다. · 전 12화 예정<br>ICTC 지휘역량강화센터 교육용<br>만든이: 부산 ICTC 서종근</div>
+  <div class="foot">근거: SOP100-113 지휘통제절차 해설(2025.12. 개정판)<br>등장 인물·지명은 가상입니다. · 전 12화 예정<br>ICTC 지휘역량강화센터 교육용<br>만든이: 부산지휘역량강화센터(정종인,서종근,주강호,신태선,고기석,이도경) 공동제작</div>
 </div>
 </body>
 </html>
